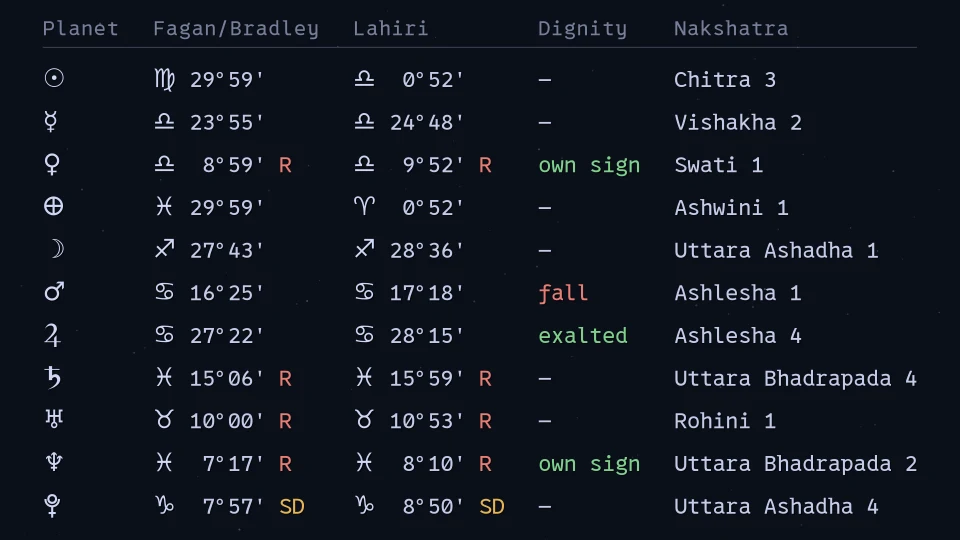
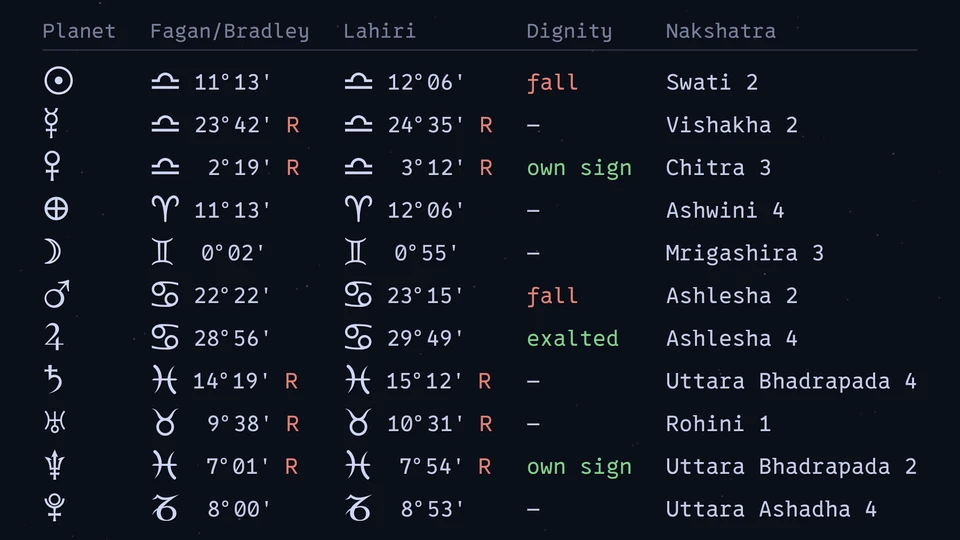
New previews and thumbnails for Orrery 1.8.0 and Ephemeris 1.3.0
Rendered with the default settings: the widgets' own symbols, the new
date format and, in the Ephemeris, the day buttons under the date.

diff --git a/README.md b/README.md
@@ -4,8 +4,8 @@ Astronomy and astrology desktop widgets for [Noctalia](https://github.com/noctal
 Both compute everything locally with the Swiss Ephemeris and redraw themselves every minute.
 
 <p>
-  <img src="orrery/preview.png" alt="Orrery" width="49%">
-  <img src="ephemeris/preview.png" alt="Ephemeris" width="42%">
+  <img src="orrery/preview.png" alt="Orrery" width="47%">
+  <img src="ephemeris/preview.png" alt="Ephemeris" width="48.6%">
 </p>
 
 ## The widgets
